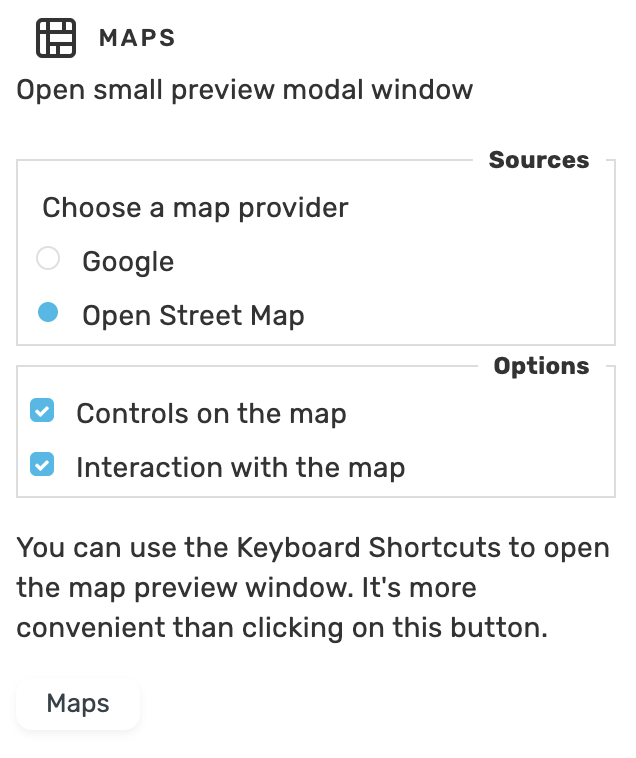
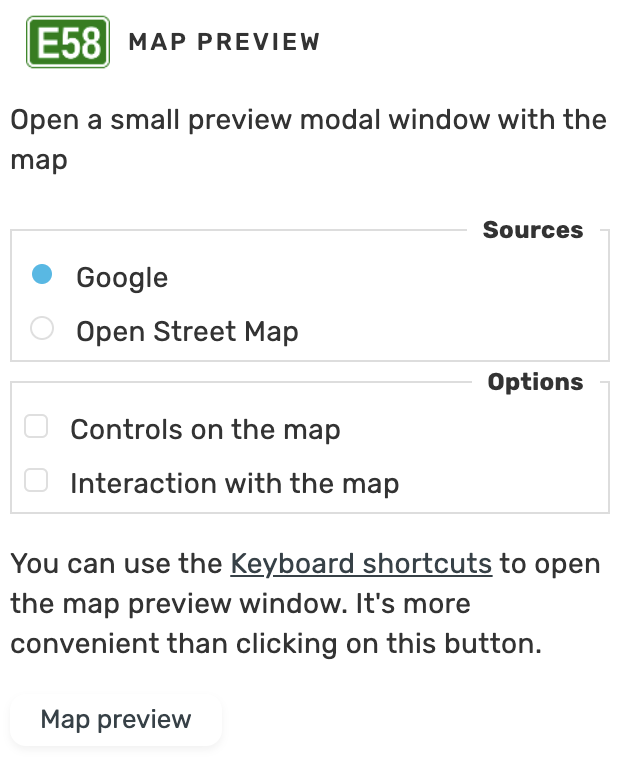
Updated WMEUI library

diff --git a/WME-E58.user.js b/WME-E58.user.js
@@ -13,8 +13,8 @@
 // @grant        none
 // @require      https://greasyfork.org/scripts/389765-common-utils/code/CommonUtils.js?version=1090053
 // @require      https://greasyfork.org/scripts/450160-wme-bootstrap/code/WME-Bootstrap.js?version=1135567
-// @require      https://greasyfork.org/scripts/450221-wme-base/code/WME-Base.js?version=1129908
-// @require      https://greasyfork.org/scripts/450320-wme-ui/code/WME-UI.js?version=1137009
+// @require      https://greasyfork.org/scripts/450221-wme-base/code/WME-Base.js?version=1137043
+// @require      https://greasyfork.org/scripts/450320-wme-ui/code/WME-UI.js?version=1137289
 // ==/UserScript==
 
 /* jshint esversion: 8 */
@@ -35,7 +35,7 @@
   const TRANSLATION = {
     'en': {
       // Tab title
-      title: 'Maps',
+      title: 'Map preview',
       // Tab description
       description: 'Open a small preview modal window with the map',
       // Tab help
@@ -58,7 +58,7 @@
       },
     },
     'uk': {
-      title: 'Карти',
+      title: 'Карта',
       description: 'Відкрити маленьку карту',
       help: 'Використовуйте <a href="#keyboard-dialog" target="_blank" rel="noopener noreferrer" data-toggle="modal">клавіатурні поєднання клавіш</a>, це значно швидше ніж використовувати ось цю кнопку',
       maps: {
@@ -75,7 +75,7 @@
       },
     },
     'ru': {
-      title: 'Карты',
+      title: 'Карта',
       description: 'Открыть маленькую карту',
       help: 'Используйте <a href="#keyboard-dialog" target="_blank" rel="noopener noreferrer" data-toggle="modal">комбинации клавиш</a>, и не надо будет клацать вот эту кнопку',
       maps: {
@@ -265,9 +265,10 @@
       let tab = this.helper.createTab(
         I18n.t(name).title,
         {
-          icon: 'map'
+          image: GM_info.script.icon
         }
       )
+      tab.addText('description', I18n.t(name).description)
 
       // Setup providers map settings
       let fsMap = this.helper.createFieldset(I18n.t(name).maps.title)
@@ -310,8 +311,9 @@
     /**
      * Show modal with map preview
      */
-    toggleMap() {
+    toggleMap () {
       if (document.getElementById('e58-map-preview')) {
+        this.log('hide preview map')
         $('#panel-container a.close-panel').click()
         return
       }
@@ -322,7 +324,7 @@
       let map = modal.addDiv('map-preview').html()
       modal.inject()
 
-      this.log('show preview map – ' + this.settings.get('map'))
+      this.log('show preview map', this.settings.get('map'))
 
       if (this.settings.get('map') === 'google') {
         let Google = new GooglePreview(map, this.settings)
@@ -332,7 +334,7 @@
         OSM.render()
       } else {
         // disabled
-        map.innerHTML = '<p>' + I18n.t(this.name).maps.description + '</p>'
+        map.innerText = I18n.t(this.name).maps.description
       }
     }
   }
@@ -344,11 +346,11 @@
 
     // Bind shortcut
     WMEUI.addShortcut(
-      I18n.t(NAME).title,
+      NAME,
       I18n.t(NAME).description,
       NAME,
-      I18n.t(NAME).title,
-      'Z',
+      I18n.t(NAME).title + ' 🗺',
+      'A+M',
       () => Instance.toggleMap(),
     )
   })

diff --git a/README.md b/README.md
@@ -1,4 +1,5 @@
 # WME E58
+
 Create map preview from external sources
 
 ![](screenshot.png)
@@ -8,18 +9,20 @@ Create map preview from external sources
 ![](settings.png)
 
 ## Shortcuts
+
 <table style="width:100%">
 <tr>
   <th>Shortcut</th>
   <th>Description</th>
 </tr>
 <tr>
-<td align='center'><code>Z</code></td>
+<td align='center'><code>Alt</code>+<code>M</code></td>
 <td>Show/hide small modal window with a map</td>
 </tr>
 </table>
 
 ## Links
+
 Author homepage: http://anton.shevchuk.name/  
 Script homepage: https://github.com/AntonShevchuk/wme-e58/  
 GreasyFork: https://greasyfork.org/uk/scripts/390207-wme-e58-map-s-previews  
